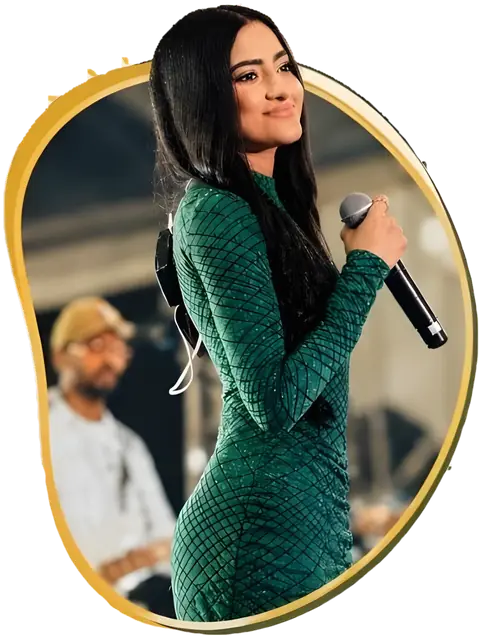
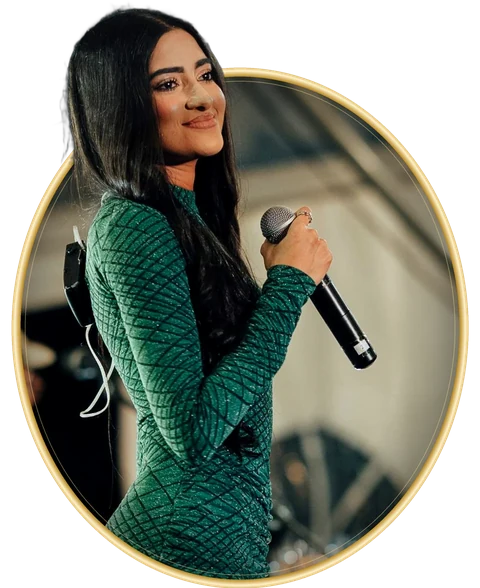
Hero: rebuilt portrait from the original high-resolution photo with a clean oval and gold ring; full-size image variants; portrait sized to clear the name
Claude-Session: https://claude.ai/code/session_01HAsTc9qzM1KLowXoasqGQf

diff --git a/tools/site.css b/tools/site.css
@@ -53,7 +53,7 @@ h4{font-family:var(--display);font-weight:400;font-size:1.3rem;line-height:1.2}
 .lede strong{color:var(--pearl);font-weight:500;display:block}
 .actions{display:flex;gap:14px;flex-wrap:wrap;margin-top:30px}
 .stage{justify-self:end;align-self:end;perspective:1200px}
-.portrait{height:min(80svh,720px);width:auto;max-width:none;filter:drop-shadow(0 40px 60px rgba(0,0,0,.55)) drop-shadow(0 0 40px rgba(212,165,58,.12));transition:transform .6s cubic-bezier(.2,.7,.1,1)}
+.portrait{height:min(74svh,640px);width:auto;max-width:none;filter:drop-shadow(0 40px 60px rgba(0,0,0,.55)) drop-shadow(0 0 40px rgba(212,165,58,.12));transition:transform .6s cubic-bezier(.2,.7,.1,1)}
 @media (prefers-reduced-motion:no-preference){.name span{animation:rise 1s cubic-bezier(.2,.7,.1,1) both}.name span+span{animation-delay:.12s}.lede,.actions{animation:fade .9s .45s both}.stage{animation:settle 1.3s .1s cubic-bezier(.2,.7,.1,1) both}
 @keyframes rise{from{opacity:0;transform:translateY(.35em)}}@keyframes fade{from{opacity:0}}@keyframes settle{from{opacity:0;transform:translateY(50px)}}}
 @media (max-width:860px){.hero{align-items:start}.hero-grid{grid-template-columns:1fr;padding-top:88px}.intro{padding-bottom:0}.name{font-size:clamp(2.8rem,13.4vw,5.6rem)}.stage{justify-self:center;margin-top:22px}.portrait{height:auto;width:min(92vw,440px);max-width:100%}}
@@ -521,3 +521,4 @@ body::before{content:"";position:fixed;inset:0;z-index:-1;pointer-events:none;op
 @media (max-width:980px){.vgrid{grid-template-columns:1fr 1fr}}
 @media (max-width:620px){.vgrid{grid-template-columns:1fr}}
 .vgrid .item{margin:0}
+@media (min-width:861px){.hero .stage{margin-right:calc(-1 * min(90px, max(0px, (100vw - 1180px) / 2)))}.hero .portrait{height:min(74svh,640px,50vw)}}

diff --git a/tools/build.py b/tools/build.py
@@ -79,13 +79,16 @@ def variants(rel, widths=(480, 960, 1440)):
     out = []
     for w in widths:
         if w >= W and out:
-            break
+            if out[-1][1] < W:
+                w = W
+            else:
+                break
         tw = min(w, W)
         name = f"{base}-{tw}.webp"
         dest = os.path.join(OUT_IMG, name)
         if not os.path.exists(dest) or os.path.getmtime(dest) < os.path.getmtime(src_path):
             r = im.convert("RGBA" if im.mode in ("RGBA", "LA", "P") else "RGB").resize((tw, round(H * tw / W)), Image.LANCZOS)
-            r.save(dest, quality=72, method=6)
+            r.save(dest, quality=88 if "stage" in rel else 72, method=6)
         out.append((f"assets/img/{name}", tw))
     srcset = ", ".join(f"{u} {w}w" for u, w in out)
     small = out[0][0]
